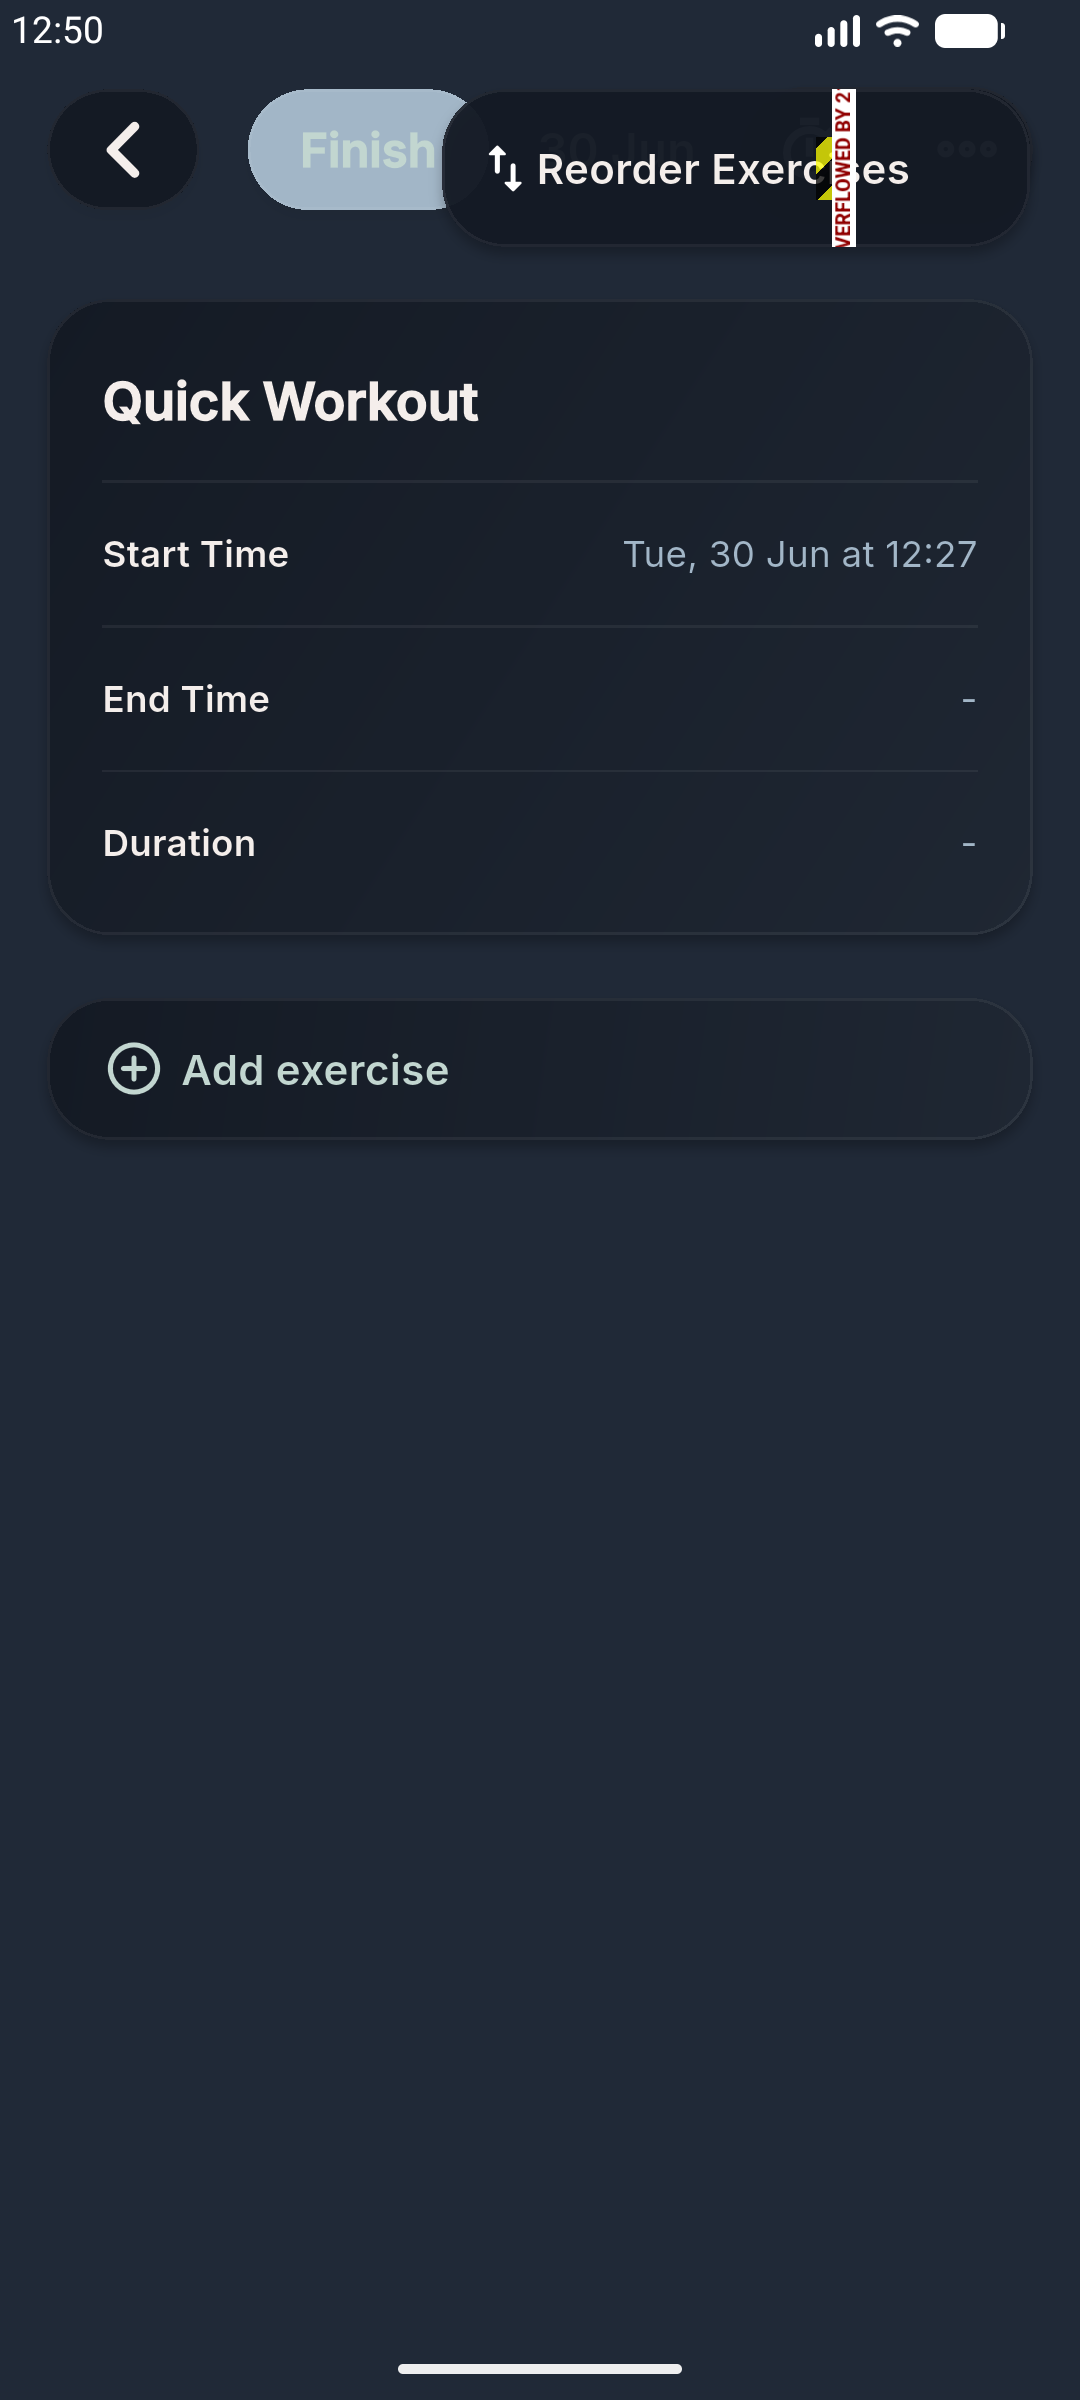
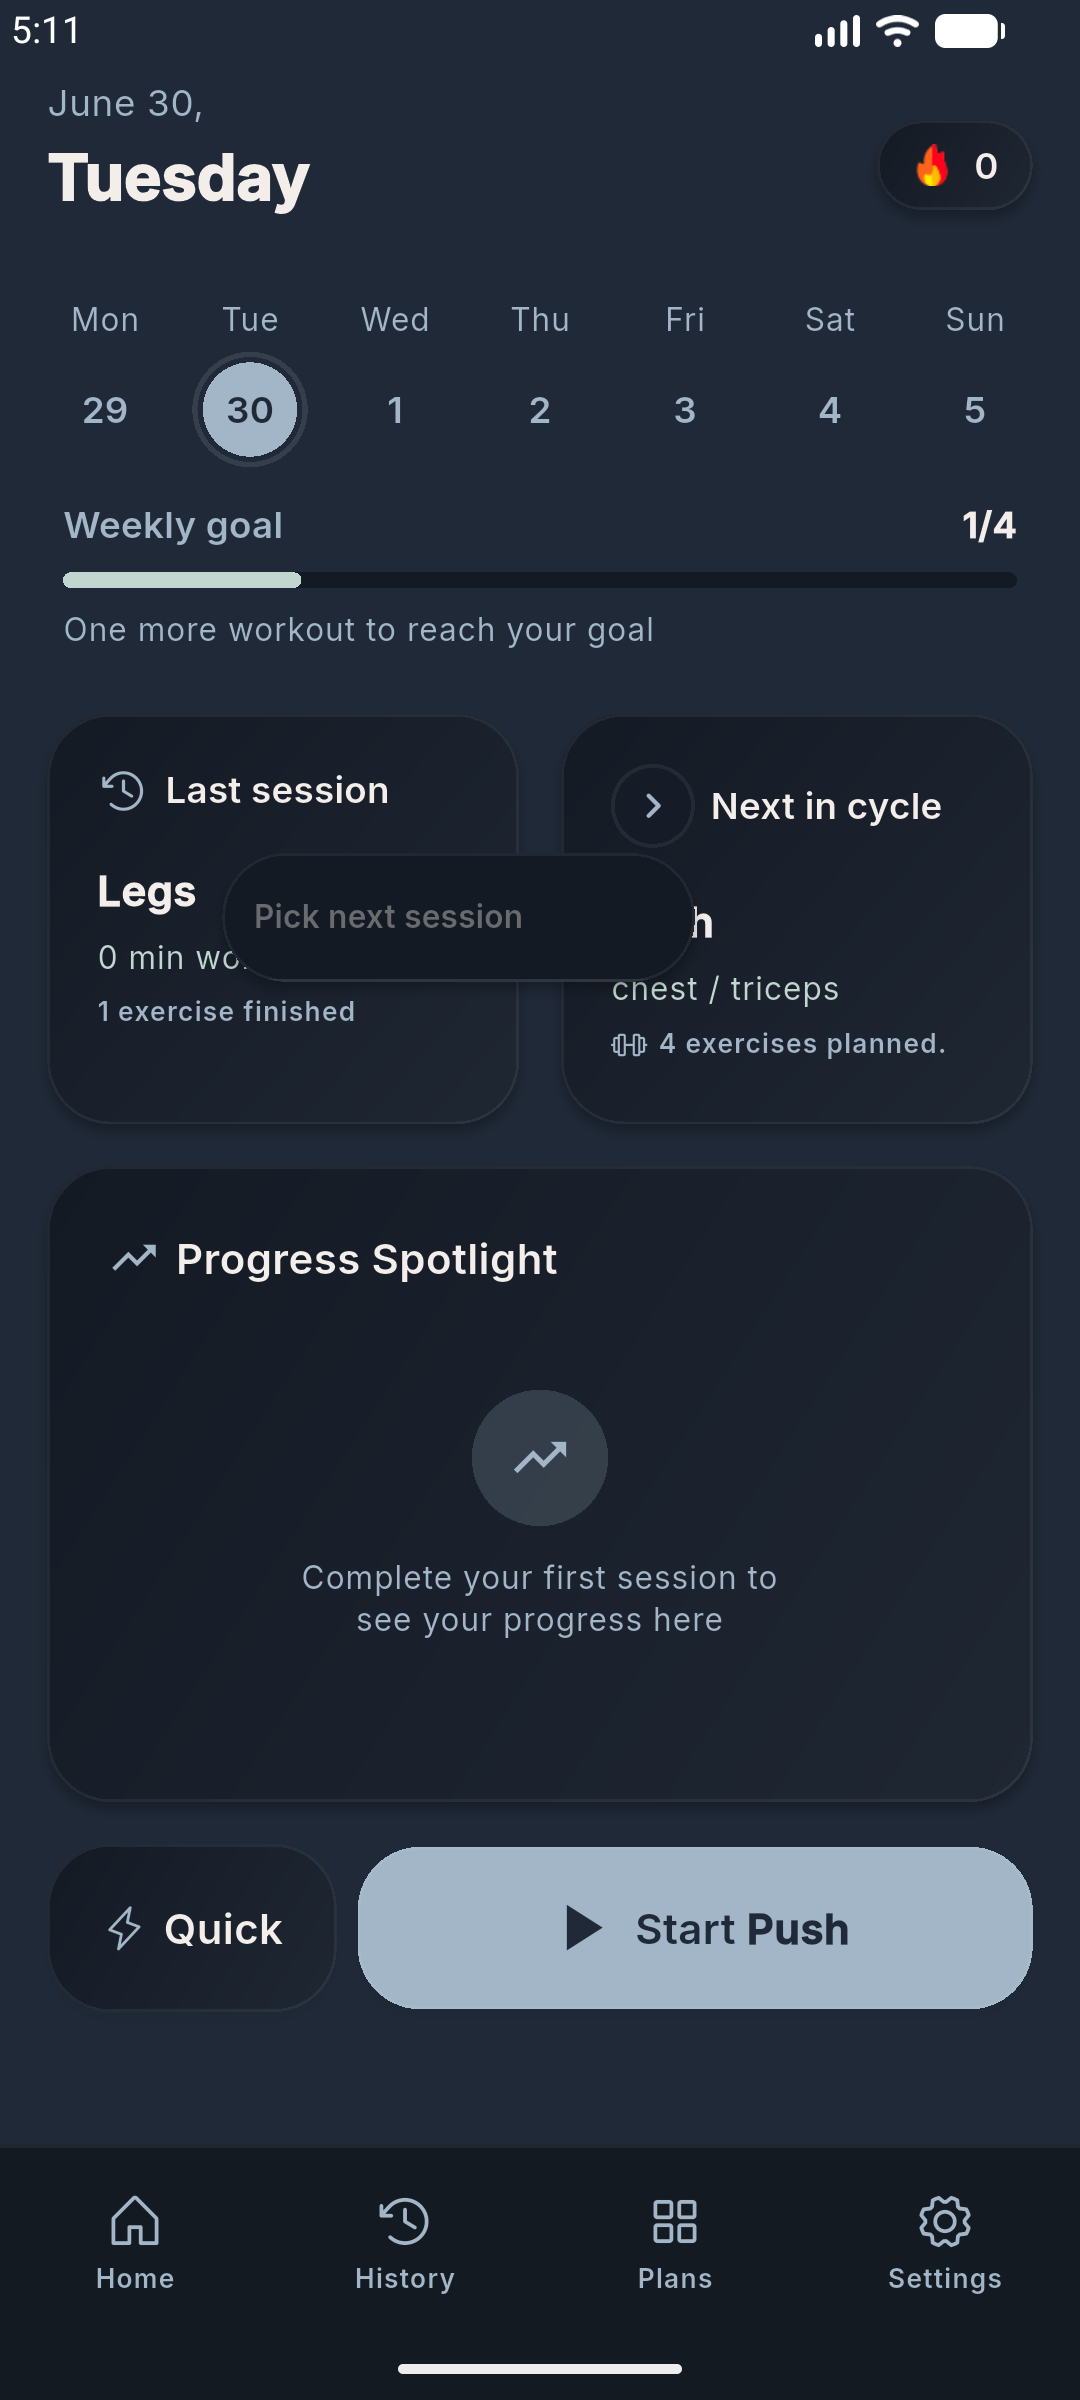
Test on a real iPhone.

diff --git a/lib/widgets/homescreen/workout_focus_section/pick_next_workout_popup_menu.dart b/lib/widgets/homescreen/workout_focus_section/pick_next_workout_popup_menu.dart
@@ -1,0 +1,112 @@
+import 'package:flutter/material.dart';
+import 'package:flutter_riverpod/flutter_riverpod.dart';
+import 'package:lifting_tracker_app/providers/presentation/active_split_days_vm.dart';
+import 'package:lifting_tracker_app/theme/app_colors.dart';
+
+class PickNextWorkoutPopupMenu extends ConsumerWidget {
+  const PickNextWorkoutPopupMenu({super.key});
+
+  @override
+  Widget build(BuildContext context, WidgetRef ref) {
+    final activeSplitDaysVmAsync = ref.watch(activeSplitDaysVmProvider);
+
+    final menuDivider = PopupMenuItem(
+      enabled: false,
+      padding: EdgeInsets.zero,
+      height: 1,
+      child: Divider(
+        height: 1,
+        thickness: 1,
+        indent: 10,
+        endIndent: 10,
+        color: AppColors.cardBorder,
+      ),
+    );
+
+    return activeSplitDaysVmAsync.when(
+      loading: () => const Center(child: CircularProgressIndicator()),
+      error: (_, _) =>
+          const Center(child: Text('An error has occured! Try again.')),
+      data: (activeSplitDaysVm) {
+        return SizedBox(
+          width: 32,
+          height: 32,
+          child: PopupMenuButton(
+            constraints: const BoxConstraints.tightFor(width: 240),
+            menuPadding: EdgeInsets.symmetric(vertical: 6),
+            splashRadius: 16,
+            borderRadius: BorderRadius.circular(16),
+            position: PopupMenuPosition.under,
+            offset: Offset(0, 2),
+            shape: RoundedRectangleBorder(
+              borderRadius: BorderRadius.circular(24),
+              side: BorderSide(color: AppColors.cardBorder, width: 1),
+            ),
+            clipBehavior: Clip.antiAlias,
+            color: AppColors.card,
+            child: Container(
+              width: 32,
+              height: 32,
+              decoration: BoxDecoration(
+                shape: BoxShape.circle,
+                border: BoxBorder.all(color: AppColors.cardBorder, width: 1.5),
+                color: AppColors.onCardTransparent,
+              ),
+              child: Icon(
+                Icons.navigate_next_rounded,
+                size: 20,
+                color: AppColors.primary,
+              ),
+            ),
+            itemBuilder: (context) => [
+              PopupMenuItem(
+                padding: EdgeInsets.symmetric(horizontal: 12),
+                enabled: false,
+                height: 38,
+                child: Text(
+                  'Pick next session',
+                  style: Theme.of(context).textTheme.bodySmall!.copyWith(
+                    color: AppColors.primary,
+                    fontWeight: FontWeight.bold,
+                  ),
+                ),
+              ),
+              menuDivider,
+              for (final splitDay in activeSplitDaysVm) ...[
+                PopupMenuItem(
+                  padding: EdgeInsets.symmetric(horizontal: 12, vertical: 8),
+                  height: 38,
+                  child: Align(
+                    alignment: Alignment.centerLeft,
+                    child: Column(
+                      mainAxisAlignment: MainAxisAlignment.start,
+                      crossAxisAlignment: CrossAxisAlignment.stretch,
+                      children: [
+                        Text(
+                          splitDay.workoutName,
+                          style: Theme.of(context).textTheme.bodyMedium!.copyWith(
+                            color: AppColors.onSurface,
+                            fontWeight: FontWeight.bold,
+                          ),
+                        ),
+                        const SizedBox(height: 4),
+                        Text(
+                          splitDay.muscleGroups ??
+                              'no muscle groups selected',
+                          style: Theme.of(context).textTheme.bodySmall!.copyWith(
+                            color: AppColors.primary,
+                            // fontWeight: FontWeight.bold,
+                          ),
+                        ),
+                      ],
+                    ),
+                  ),
+                ),
+              ],
+            ],
+          ),
+        );
+      },
+    );
+  }
+}

diff --git a/lib/providers/presentation/active_split_days_vm.dart b/lib/providers/presentation/active_split_days_vm.dart
@@ -1,0 +1,62 @@
+import 'dart:async';
+
+import 'package:flutter_riverpod/flutter_riverpod.dart';
+import 'package:lifting_tracker_app/data/app_databases.dart';
+import 'package:lifting_tracker_app/models/view_model/workout_focus_vm.dart';
+import 'package:lifting_tracker_app/providers/persisted/active_split_days.dart';
+
+final activeSplitDaysVmProvider =
+    AsyncNotifierProvider<ActiveSplitDaysVmNotifier, List<WorkoutFocusVm>>(
+      ActiveSplitDaysVmNotifier.new,
+    );
+
+class ActiveSplitDaysVmNotifier extends AsyncNotifier<List<WorkoutFocusVm>> {
+  @override
+  FutureOr<List<WorkoutFocusVm>> build() async {
+    final activeSplitDays = await ref.watch(activeSplitDaysProvider.future);
+
+    final db = await AppDatabases.getDatabase();
+
+    final workouts = <WorkoutFocusVm>[];
+
+    await db.transaction((txn) async {
+      for (final splitDay in activeSplitDays) {
+        final data = await txn.rawQuery(
+          '''
+          SELECT GROUP_CONCAT(muscle_group, ' / ') AS muscleGroups
+          FROM ( 
+            SELECT DISTINCT e.muscle_group
+            FROM exercises e
+            JOIN day_exercises de ON de.exercise_id = e.id
+            WHERE de.day_id = ?
+            ORDER BY e.muscle_group
+          )
+          ''',
+          [splitDay.id],
+        );
+
+        if (data.isEmpty) {
+          workouts.add(
+            WorkoutFocusVm(
+              workoutName: splitDay.name,
+              muscleGroups: null,
+              nrOfExercises: null,
+              dayId: splitDay.id,
+            ),
+          );
+        }
+
+        workouts.add(
+          WorkoutFocusVm(
+            workoutName: splitDay.name,
+            muscleGroups: data.first['muscleGroups'] as String,
+            nrOfExercises: null,
+            dayId: splitDay.id,
+          ),
+        );
+      }
+    });
+
+    return workouts;
+  }
+}

diff --git a/lib/widgets/appBars/workout_session/workout_session_app_bar.dart b/lib/widgets/appBars/workout_session/workout_session_app_bar.dart
@@ -5,7 +5,6 @@ import 'package:lifting_tracker_app/theme/app_colors.dart';
 import 'package:lifting_tracker_app/widgets/appBars/workout_session/workout_editor_flow.dart';
 import 'package:lifting_tracker_app/widgets/core/solid_button.dart';
 import 'package:lifting_tracker_app/widgets/core/solid_card.dart';
-import 'package:phosphor_flutter/phosphor_flutter.dart';
 
 class WorkoutSessionAppBar extends ConsumerWidget
     implements PreferredSizeWidget {
@@ -87,9 +86,10 @@ class WorkoutSessionAppBar extends ConsumerWidget
                   PopupMenuButton(
                     constraints: const BoxConstraints.tightFor(width: 220),
                     menuPadding: EdgeInsets.zero,
-                    icon: PhosphorIcon(
-                      PhosphorIcons.dotsThreeOutline(PhosphorIconsStyle.bold),
-                      size: iconSize,
+                    icon: Icon(
+                      Icons.more_horiz,
+                      fontWeight: FontWeight.bold,
+                      size: iconSize + 4,
                       color: AppColors.onSurface,
                     ),
                     itemBuilder: (context) => [
@@ -140,7 +140,7 @@ class WorkoutSessionAppBar extends ConsumerWidget
                       side: BorderSide(color: AppColors.cardBorder, width: 1),
                     ),
                     clipBehavior: Clip.antiAlias,
-                    color: AppColors.card.withAlpha(245),
+                    color: AppColors.card,
                   ),
                 ],
               ),

diff --git a/lib/widgets/homescreen/last_session_section.dart b/lib/widgets/homescreen/last_session_section.dart
@@ -18,6 +18,7 @@ class LastSessionSection extends StatelessWidget {
         child: Column(
           crossAxisAlignment: CrossAxisAlignment.stretch,
           children: [
+            const SizedBox(height: 4.8),
             Row(
               children: [
                 PhosphorIcon(
@@ -33,7 +34,7 @@ class LastSessionSection extends StatelessWidget {
                 ),
               ],
             ),
-            const SizedBox(height: 16),
+            const SizedBox(height: 15),
             _LastSessionInfoAsync(),
             const Spacer(),
           ],

diff --git a/lib/models/view_model/workout_focus_vm.dart b/lib/models/view_model/workout_focus_vm.dart
@@ -4,10 +4,12 @@ class WorkoutFocusVm {
     required this.muscleGroups,
     required this.nrOfExercises,
     this.isActiveQuickWorkout = false,
+    this.dayId
   });
 
   final String workoutName;
   final String? muscleGroups;
   final int? nrOfExercises;
   final bool isActiveQuickWorkout;
+  final String? dayId;
 }

diff --git a/lib/screens/home.dart b/lib/screens/home.dart
@@ -2,7 +2,7 @@ import 'package:flutter/material.dart';
 import 'package:flutter_riverpod/flutter_riverpod.dart';
 import 'package:lifting_tracker_app/providers/persisted/active_session_lifecycle.dart';
 import 'package:lifting_tracker_app/widgets/homescreen/last_session_section.dart';
-import 'package:lifting_tracker_app/widgets/homescreen/workout_focus_section.dart';
+import 'package:lifting_tracker_app/widgets/homescreen/workout_focus_section/workout_focus_section.dart';
 import 'package:lifting_tracker_app/widgets/homescreen/progress_spotlight.dart';
 import 'package:lifting_tracker_app/widgets/homescreen/quick_workout.dart';
 import 'package:lifting_tracker_app/widgets/homescreen/start_session.dart';